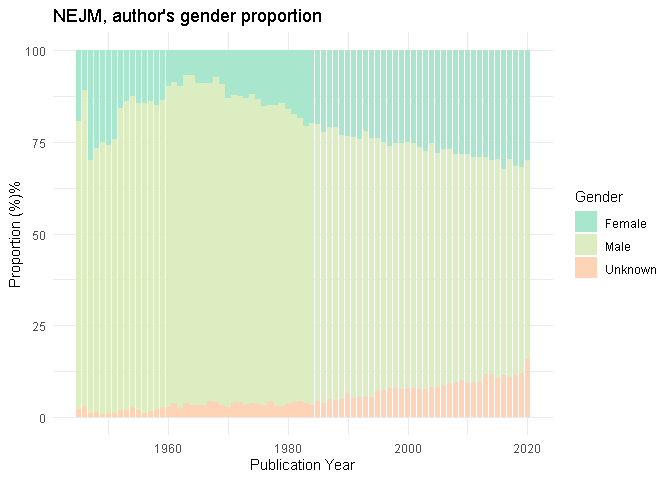
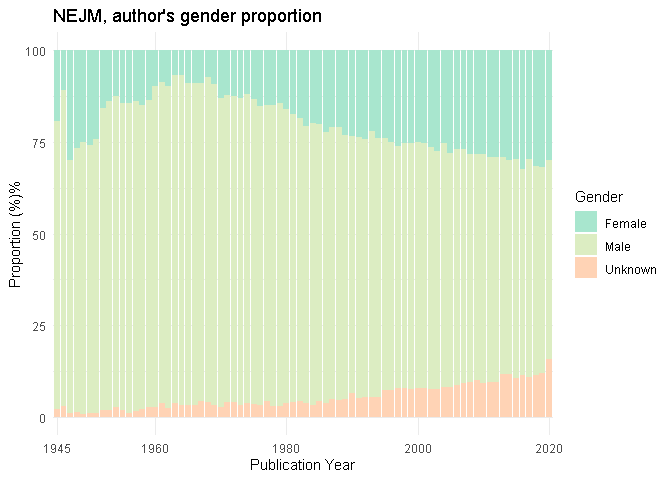
Update x scale

diff --git a/README.md b/README.md
@@ -491,10 +491,13 @@ with missing DOI
 count_gender <- data_filtered %>% 
   group_by(`Publication Year`) %>% 
   count(gender) %>% 
-  mutate(prop = round(100*n/sum(n), 2))
+  mutate(prop = round(100*n/sum(n), 2)) %>% 
+  ungroup()
 
 count_gender %>% 
   mutate(
+    `Publication Year` = as_factor(`Publication Year`),
+    gender = ifelse(is.na(gender), "unknown", gender), 
     gender = ifelse(is.na(gender), "unknown", gender), 
     gender = str_to_title(gender)) %>% 
   ggplot(aes(`Publication Year`, prop, fill = gender)) +
@@ -504,7 +507,10 @@ count_gender %>%
   labs(
     title = "NEJM, author's gender proportion",
     y = "Proportion (%)%",
-    fill = "Gender")
+    fill = "Gender") +
+    scale_x_discrete(
+    breaks=c("1945", "1960", "1980", "2000", "2020")
+  )
 ```
 
 ![](README_files/figure-gfm/unnamed-chunk-6-1.png)<!-- -->
@@ -516,10 +522,12 @@ count_gender_first <- data_filtered %>%
   filter(author_position == 1) %>% 
   group_by(`Publication Year`) %>% 
   count(gender) %>% 
-  mutate(prop = round(100*n/sum(n), 2))
+  mutate(prop = round(100*n/sum(n), 2)) %>% 
+  ungroup()
 
 count_gender_first %>% 
   mutate(
+    `Publication Year` = as_factor(`Publication Year`),
     gender = ifelse(is.na(gender), "unknown", gender), 
     gender = str_to_title(gender)) %>% 
   ggplot(aes(`Publication Year`, prop, fill = gender)) +
@@ -529,7 +537,10 @@ count_gender_first %>%
   labs(
     title = "NEJM, first author's gender proportion",
     y = "Proportion (%)%",
-    fill = "Gender")
+    fill = "Gender") +
+    scale_x_discrete(
+    breaks=c("1945", "1960", "1980", "2000", "2020")
+  )
 ```
 
 ![](README_files/figure-gfm/unnamed-chunk-7-1.png)<!-- -->
@@ -544,10 +555,12 @@ count_single <- data_filtered %>%
   filter(total_authors == 1) %>% 
   group_by(`Publication Year`) %>% 
   count(gender) %>% 
-  mutate(prop = round(100*n/sum(n), 2))
+  mutate(prop = round(100*n/sum(n), 2)) %>% 
+  ungroup()
 
 count_single %>% 
   mutate(
+    `Publication Year` = as_factor(`Publication Year`),
     gender = ifelse(is.na(gender), "unknown", gender), 
     gender = str_to_title(gender)) %>% 
   ggplot(aes(`Publication Year`, prop, fill = gender)) +
@@ -557,7 +570,10 @@ count_single %>%
   labs(
     title = "NEJM, Single author's gender proportion",
     y = "Proportion (%)%",
-    fill = "Gender")
+    fill = "Gender") +
+    scale_x_discrete(
+    breaks=c("1945", "1960", "1980", "2000", "2020")
+  )
 ```
 
 ![](README_files/figure-gfm/unnamed-chunk-8-1.png)<!-- -->
@@ -571,10 +587,12 @@ count_last<- data_filtered %>%
   ungroup() %>% 
   group_by(`Publication Year`) %>% 
   count(gender) %>% 
-  mutate(prop = round(100*n/sum(n), 2))
+  mutate(prop = round(100*n/sum(n), 2)) %>% 
+  ungroup()
 
 count_last %>% 
   mutate(
+    `Publication Year` = as_factor(`Publication Year`),
     gender = ifelse(is.na(gender), "unknown", gender), 
     gender = str_to_title(gender)) %>% 
   ggplot(aes(`Publication Year`, prop, fill = gender)) +
@@ -584,7 +602,10 @@ count_last %>%
   labs(
     title = "NEJM, Last author's gender proportion",
     y = "Proportion (%)%",
-    fill = "Gender")
+    fill = "Gender") +
+    scale_x_discrete(
+    breaks=c("1945", "1960", "1980", "2000", "2020")
+  )
 ```
 
 ![](README_files/figure-gfm/unnamed-chunk-9-1.png)<!-- -->
